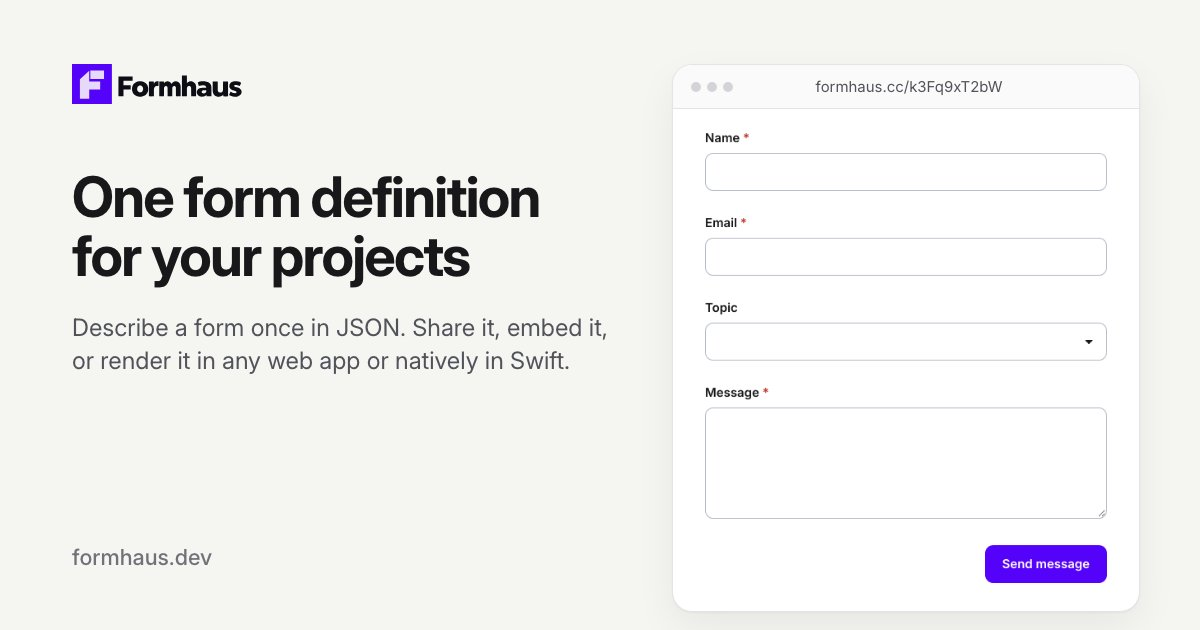
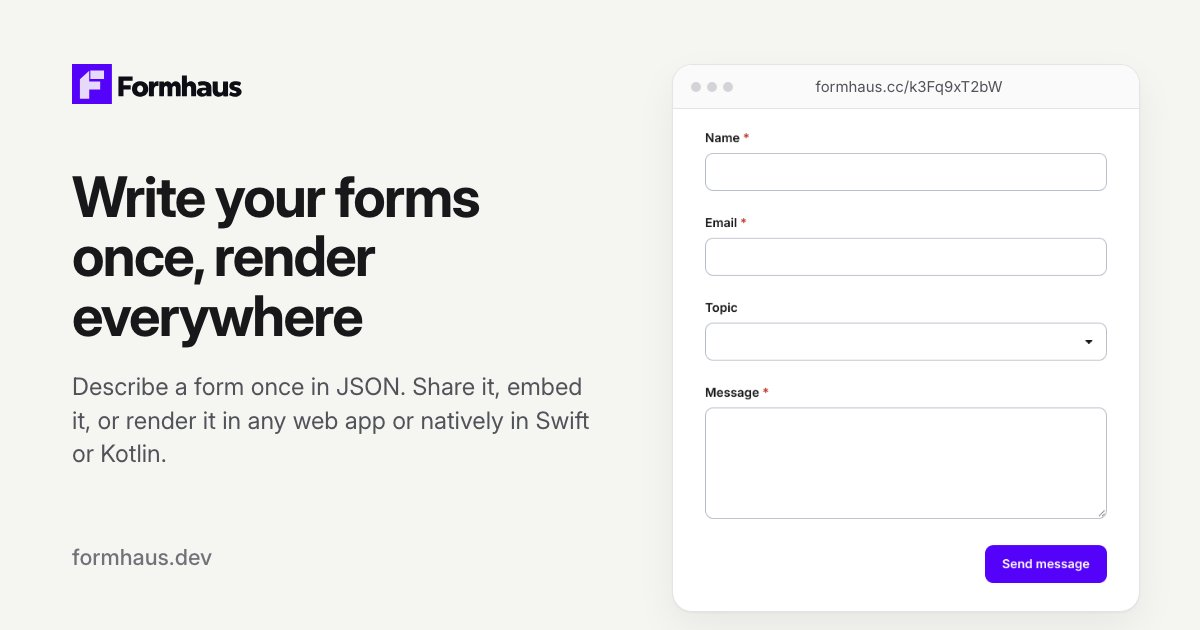
docs: change the tagline to Write your forms once, render everywhere

Changed region(s): [[0.0617, 0.2714, 0.5242, 0.754]]

diff --git a/packages/site-theme/src/SiteFooter.vue b/packages/site-theme/src/SiteFooter.vue
@@ -26,7 +26,7 @@ const logo = { light: '/brand/logo-full.svg', dark: '/brand/logo-full-dark.svg',
           <a class="fh-footer__brand" href="/" aria-label="Formhaus home">
             <VPImage :image="logo" />
           </a>
-          <p class="fh-footer__tagline">One form definition for your projects.</p>
+          <p class="fh-footer__tagline">Write your forms once, render everywhere.</p>
         </div>
         <nav v-for="column in columns" :key="column.title" class="fh-footer__column" :aria-labelledby="`fh-footer-${column.id}`">
           <h2 :id="`fh-footer-${column.id}`" class="fh-footer__title">{{ column.title }}</h2>

diff --git a/README.md b/README.md
@@ -9,14 +9,14 @@
   <a href="LICENSE"><img src="https://img.shields.io/github/license/formhaus-dev/formhaus" alt="MIT license"></a>
 </p>
 
-<p align="center"><strong>One form definition for your projects.</strong></p>
+<p align="center"><strong>Write your forms once, render everywhere.</strong></p>
 
 <p align="center">
   One JSON definition holds fields, validation, conditions, steps and branching.<br>
-  Render it in your React or Vue app, or publish it as a hosted form.
+  Render it in your React or Vue app, natively in Swift or Kotlin, or publish it as a hosted form.
 </p>
 
-<p align="center"><strong>React</strong> · <strong>Vue</strong> · <strong>MCP</strong> · <strong>Figma Plugin</strong></p>
+<p align="center"><strong>React</strong> · <strong>Vue</strong> · <strong>Swift</strong> · <strong>Kotlin</strong> · <strong>MCP</strong> · <strong>Figma Plugin</strong></p>
 
 <p align="center">
   <a href="https://formhaus.dev/guide/">Documentation</a> ·

diff --git a/docs/index.md b/docs/index.md
@@ -1,5 +1,5 @@
 ---
-title: "Formhaus · One form definition for your projects"
+title: "Formhaus · Write your forms once, render everywhere"
 titleTemplate: false
 description: "Describe a form, share it with your audience, and collect responses. Build with AI, use the free builder, or add Formhaus to a React, Vue or any other app."
 ---
